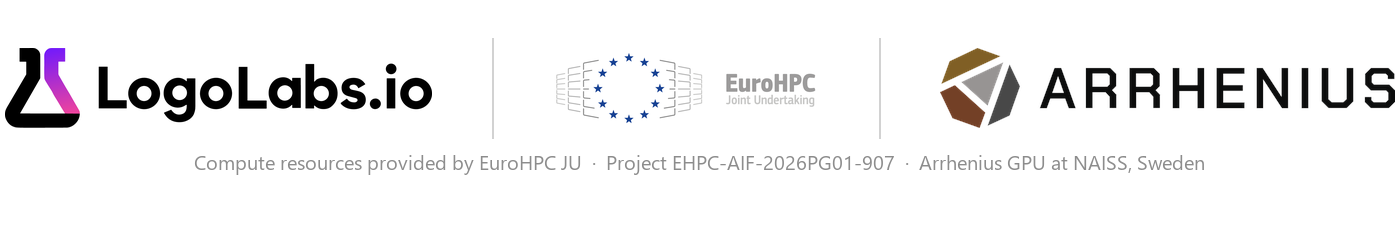
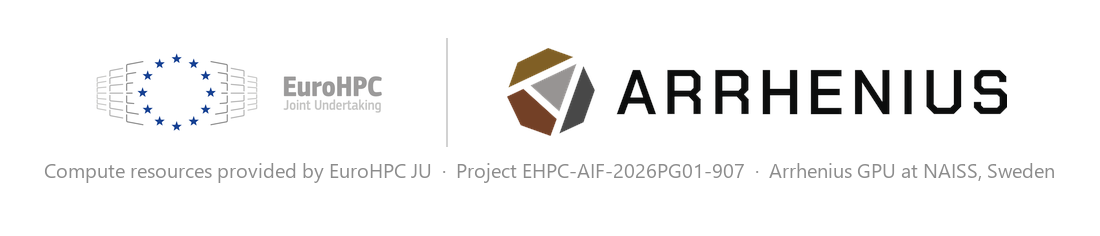
docs: refresh LogoLabs hero branding

Changed region(s): [[0.4018, 0.1842, 1.0, 0.5833], [0.0, 0.2149, 0.3709, 0.5833], [0.0309, 0.6754, 0.9582, 0.7675]]

diff --git a/README.md b/README.md
@@ -1,5 +1,5 @@
 <p align="center">
-  <img src="docs/assets/logolabs-logo.svg" height="40" alt="LogoLabs" style="margin-right:24px">
+  <img src="docs/assets/logolabs-brand-lockup.png" width="440" alt="LogoLabs">
 </p>
 
 <h1 align="center">Inkvec</h1>
@@ -236,7 +236,7 @@ Apache-2.0. See [`LICENSE`](LICENSE). Third-party components: [`docs/THIRD_PARTY
 ## Acknowledgements
 
 <p align="center">
-  <img src="docs/assets/acknowledgment-banner.png" width="760" alt="LogoLabs, EuroHPC JU, and Arrhenius — EuroHPC JU Project EHPC-AIF-2026PG01-907; Arrhenius GPU at NAISS, Sweden">
+  <img src="docs/assets/acknowledgment-banner.png" width="760" alt="EuroHPC JU and Arrhenius — Project EHPC-AIF-2026PG01-907; Arrhenius GPU at NAISS, Sweden">
 </p>
 
 We acknowledge EuroHPC JU for awarding the project ID **EHPC-AIF-2026PG01-907** access to resources on **Arrhenius GPU at NAISS, Sweden**. The Arrhenius system is operated by the National Academic Infrastructure for Supercomputing in Sweden (NAISS). Compute time on Arrhenius enabled the training and evaluation of the denoiser/restorer model shipped with this release.
